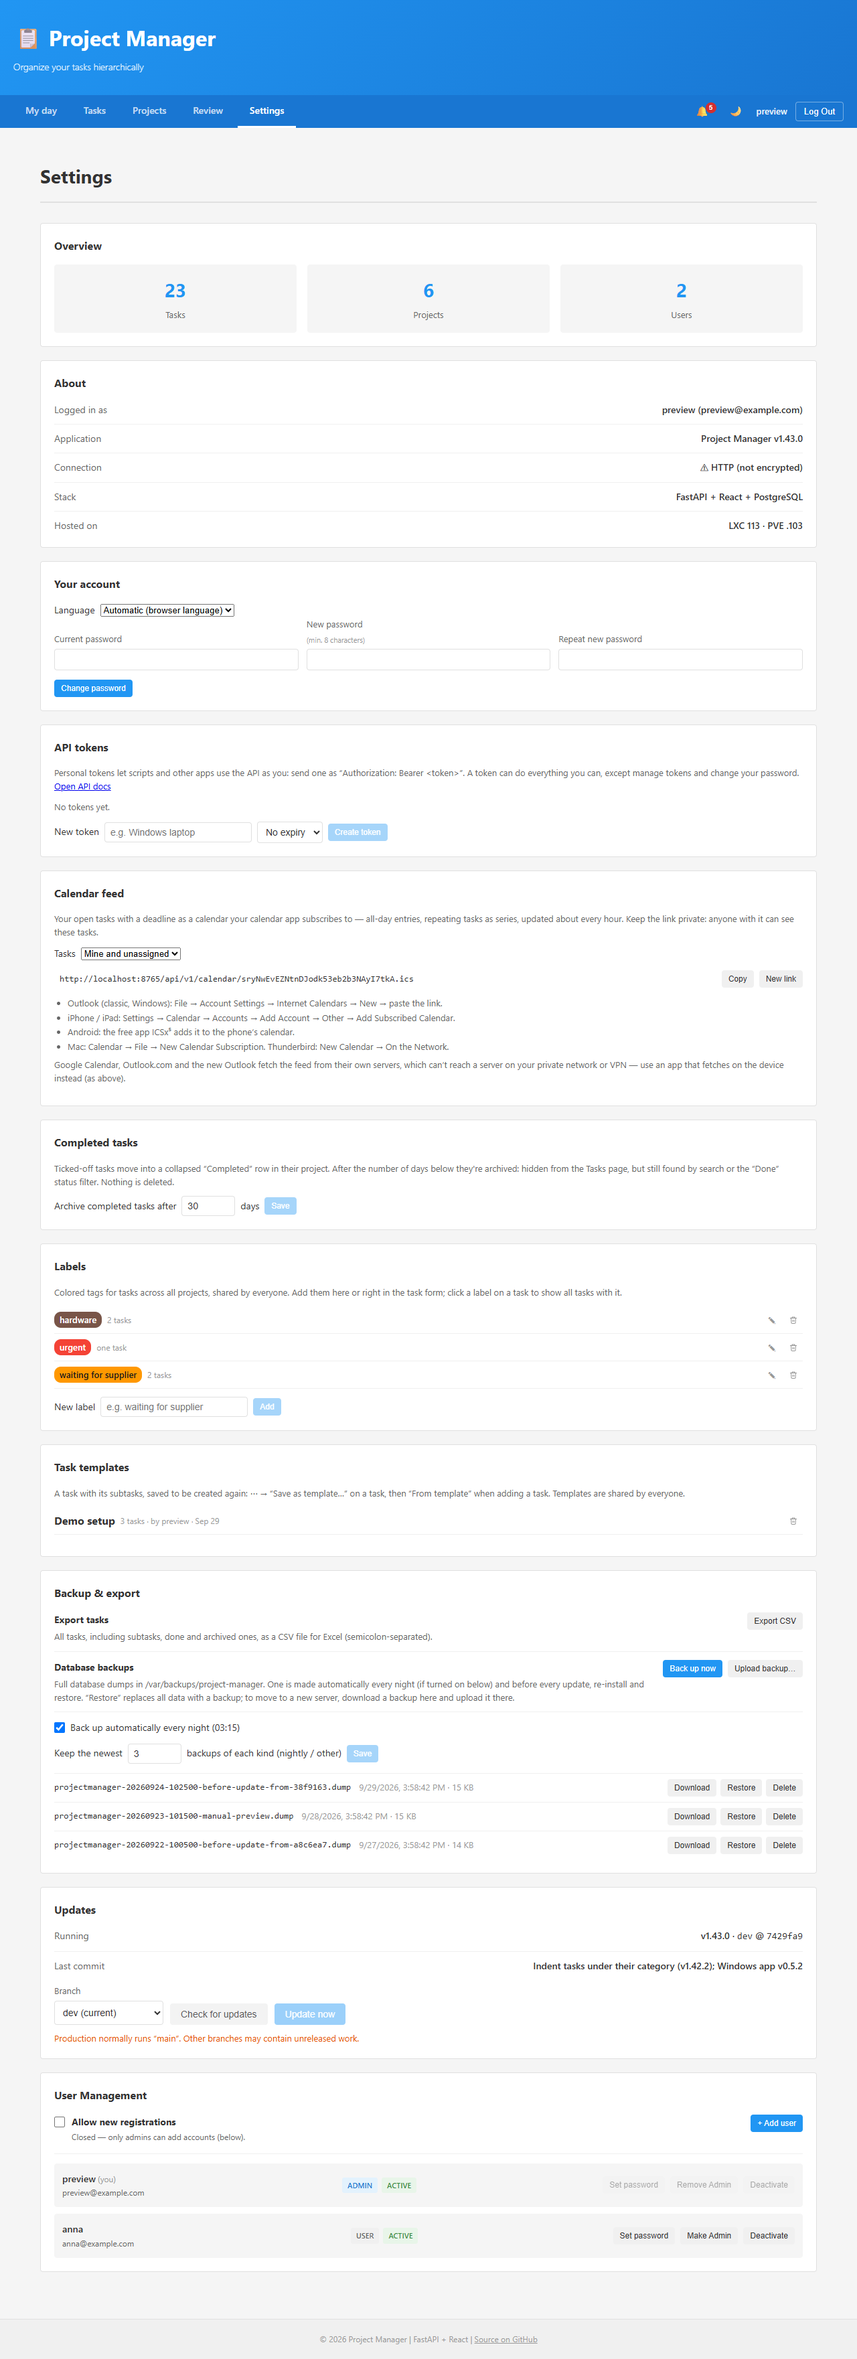
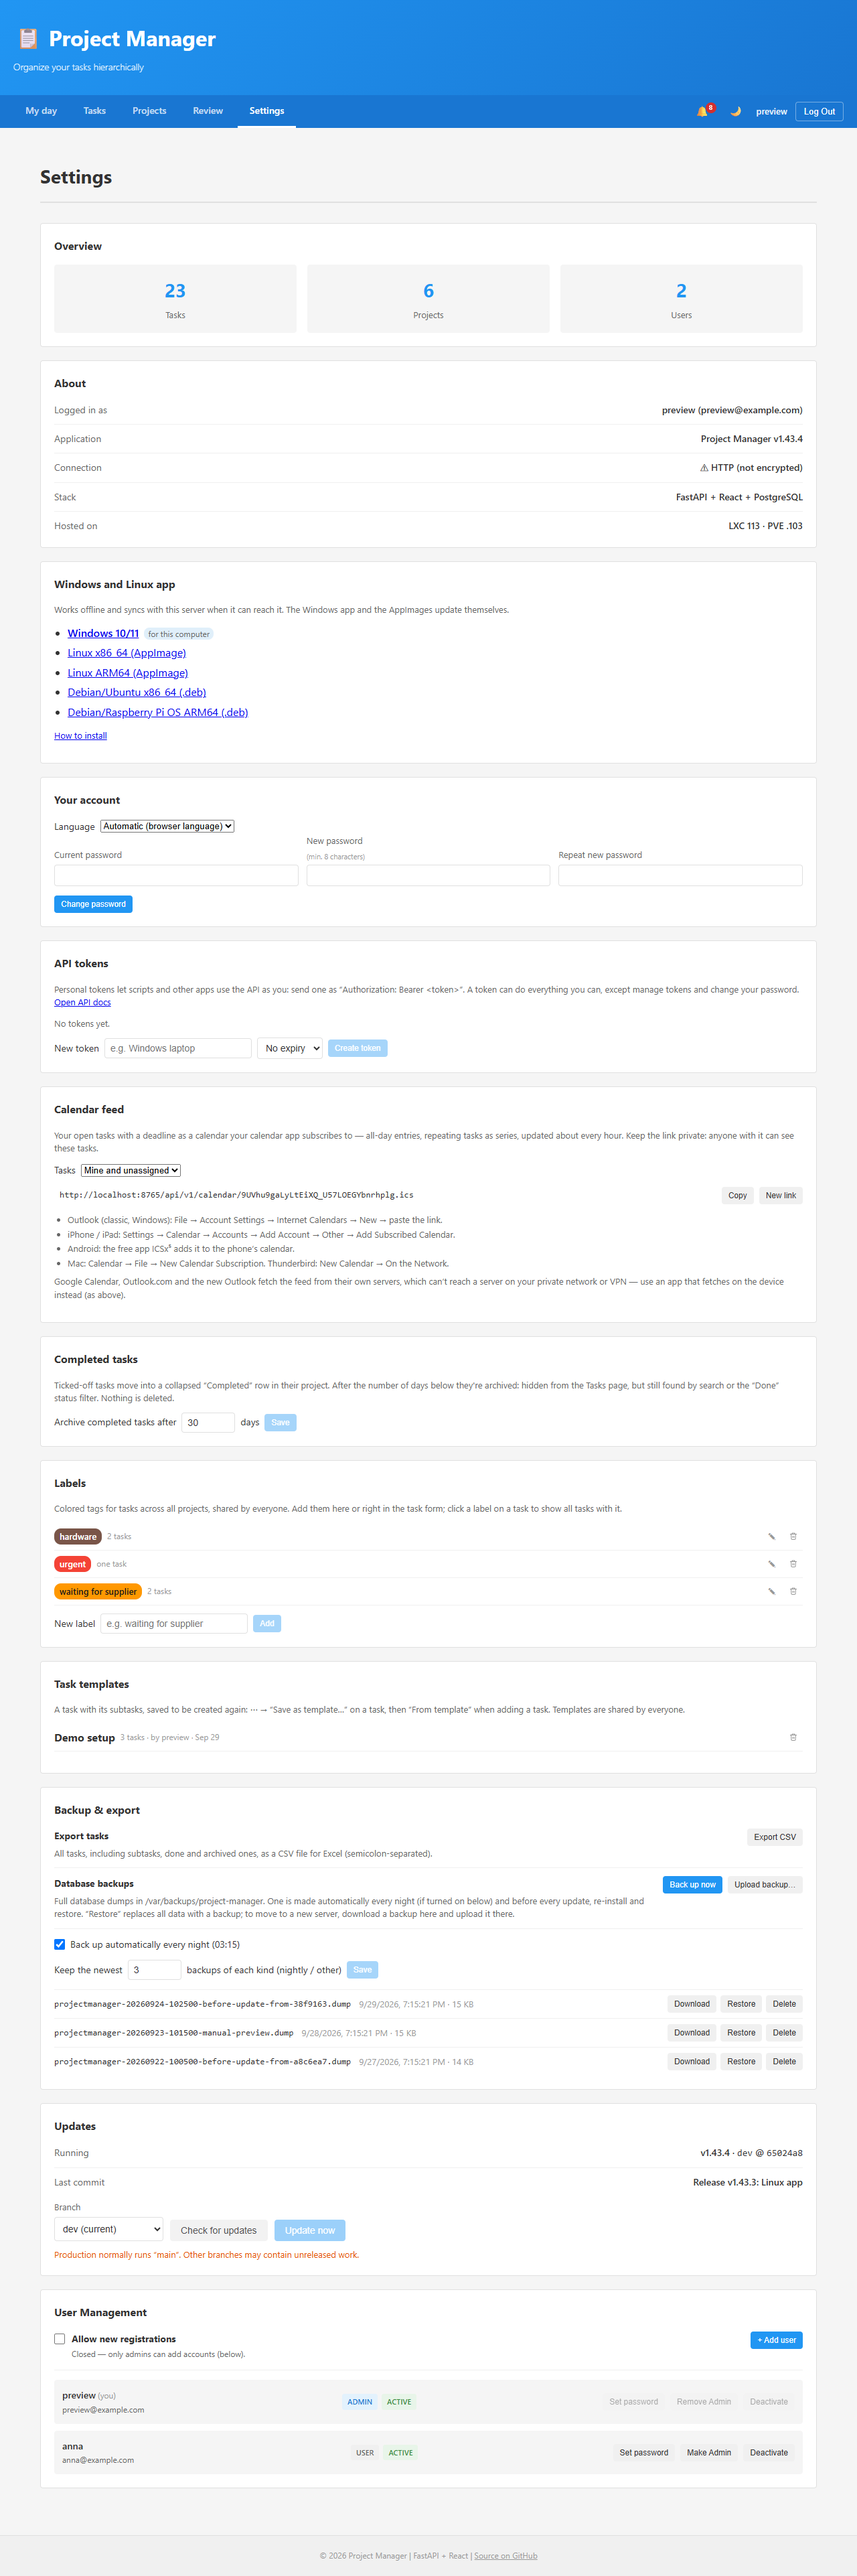
Easy to find app downloads (v1.43.4)
- Every server release (the one GitHub shows as "Latest") gets the newest
  Windows/Linux app under fixed names plus a download table:
  scripts/attach-apps.sh, run by release-apps.yml (server release) and
  desktop.yml (app release). .../releases/latest/download/<name> always
  gets the newest app.
- Settings -> Windows and Linux app in the web app with the download
  links (the one for this computer marked).
- README "Download the app" section at the top; desktop/README install
  table with the fixed links; docs, screenshot, CHANGELOG.

diff --git a/frontend/src/components/AppDownloads.js b/frontend/src/components/AppDownloads.js
@@ -1,0 +1,52 @@
+import React from 'react';
+import { t } from '../i18n';
+
+// Download links for the Windows and Linux app. They point at the latest
+// GitHub release, which always carries the newest app under these names
+// (scripts/attach-apps.sh), so they never need updating.
+const BASE = 'https://github.com/Boisti13/project-manager/releases/latest/download/';
+
+export const APP_FILES = [
+  { os: 'windows', label: 'Windows 10/11', file: 'ProjectManager-Windows-x64-setup.exe' },
+  { os: 'linux', label: 'Linux x86_64 (AppImage)', file: 'ProjectManager-Linux-x86_64.AppImage' },
+  { os: 'linux', label: 'Linux ARM64 (AppImage)', file: 'ProjectManager-Linux-arm64.AppImage' },
+  { os: 'linux', label: 'Debian/Ubuntu x86_64 (.deb)', file: 'ProjectManager-Linux-x86_64.deb' },
+  { os: 'linux', label: 'Debian/Raspberry Pi OS ARM64 (.deb)', file: 'ProjectManager-Linux-arm64.deb' },
+];
+
+function currentOs() {
+  const ua = navigator.userAgent;
+  if (/Android|iPhone|iPad/.test(ua)) return null;
+  if (/Windows/.test(ua)) return 'windows';
+  if (/Linux|X11/.test(ua)) return 'linux';
+  return null;
+}
+
+function AppDownloads() {
+  const os = currentOs();
+  return (
+    <div className="settings-section">
+      <h2>{t('Windows and Linux app')}</h2>
+      <p className="settings-help">
+        {t('Works offline and syncs with this server when it can reach it. The Windows app and the AppImages update themselves.')}
+      </p>
+      <ul className="app-downloads">
+        {APP_FILES.map((a) => (
+          <li key={a.file} className={a.os === os ? 'app-download-mine' : ''}>
+            <a href={BASE + a.file}>{a.label}</a>
+            {a.os === os && a.file === APP_FILES.find((x) => x.os === os).file && (
+              <span className="app-download-tag">{t('for this computer')}</span>
+            )}
+          </li>
+        ))}
+      </ul>
+      <p className="settings-help">
+        <a href="https://github.com/Boisti13/project-manager/blob/main/desktop/README.md#installing" target="_blank" rel="noopener noreferrer">
+          {t('How to install')}
+        </a>
+      </p>
+    </div>
+  );
+}
+
+export default AppDownloads;

diff --git a/frontend/src/locales/de.js b/frontend/src/locales/de.js
@@ -273,6 +273,7 @@ const de = {
   "First column": "Erste Spalte",
   "first workday": "erster Werktag",
   "follows the schedule (from the deadline)": "folgt dem Plan (ab der Frist)",
+  "for this computer": "für diesen Computer",
   "Formatting: **bold**, *italic*, `code`, - lists, links are clickable": "Formatierung: **fett**, *kursiv*, `Code`, - Listen, Links sind anklickbar",
   "From template": "Aus Vorlage",
   "from {date}": "ab {date}",
@@ -286,6 +287,7 @@ const de = {
   "High": "Hoch",
   "Hosted on": "Gehostet auf",
   "Hours and minutes, e.g. 2h, 1.5h, 45m or 1:30": "Stunden und Minuten, z. B. 2h, 1,5h, 45m oder 1:30",
+  "How to install": "Installationsanleitung",
   "ID": "ID",
   "Import": "Importieren",
   "Import failed: {error}": "Import fehlgeschlagen: {error}",
@@ -700,10 +702,12 @@ const de = {
   "Weeks": "Wochen",
   "weeks": "Wochen",
   "Whose tasks": "Wessen Aufgaben",
+  "Windows and Linux app": "App für Windows und Linux",
   "Windows app": "Windows-App",
   "Windows app ({date})": "Windows-App ({date})",
   "workdays": "werktags",
   "Working…": "Wird ausgeführt …",
+  "Works offline and syncs with this server when it can reach it. The Windows app and the AppImages update themselves.": "Funktioniert offline und synchronisiert mit diesem Server, sobald er erreichbar ist. Die Windows-App und die AppImages aktualisieren sich selbst.",
   "Write a comment…  (Ctrl+Enter to send)": "Kommentar schreiben …  (Strg+Enter zum Senden)",
   "Write a comment… @name notifies someone  (Ctrl+Enter to send)": "Kommentar schreiben… @Name benachrichtigt jemanden  (Strg+Enter zum Senden)",
   "year": "Jahr",

diff --git a/frontend/src/components/Settings.js b/frontend/src/components/Settings.js
@@ -9,6 +9,7 @@ import LabelSettings from './LabelSettings';
 import ApiTokenSettings from './ApiTokenSettings';
 import CalendarFeedSettings from './CalendarFeedSettings';
 import DesktopSettings from './desktop/DesktopSettings';
+import AppDownloads from './AppDownloads';
 import { IS_DESKTOP } from '../desktop/platform';
 import '../styles/Settings.css';
 import { t } from '../i18n';
@@ -106,7 +107,7 @@ function Settings() {
         </div>
       </div>
 
-      {IS_DESKTOP && <DesktopSettings />}
+      {IS_DESKTOP ? <DesktopSettings /> : <AppDownloads />}
 
       <AccountSettings />
 

diff --git a/frontend/src/styles/Settings.css b/frontend/src/styles/Settings.css
@@ -330,3 +330,25 @@
 .feed-howto li {
   margin: 2px 0;
 }
+
+.app-downloads {
+  margin: 0 0 12px;
+  padding-left: 20px;
+}
+
+.app-downloads li {
+  margin: 4px 0;
+}
+
+.app-download-mine a {
+  font-weight: 600;
+}
+
+.app-download-tag {
+  margin-left: 8px;
+  padding: 1px 6px;
+  border-radius: 8px;
+  font-size: 12px;
+  background: var(--color-primary-light, rgba(0, 120, 212, 0.12));
+  color: var(--color-text-secondary);
+}

diff --git a/desktop/README.md b/desktop/README.md
@@ -10,17 +10,21 @@ with a local copy of your data.
 
 ## Installing
 
-Downloads are on the [releases](https://github.com/Boisti13/project-manager/releases?q=desktop-v&expanded=true)
-tagged `desktop-v…` (or the latest build under *Actions → Desktop apps →
-Artifacts*):
+Download the file for your system — these links always get the newest
+version (they're also under *Settings* in the web app, and on the
+[latest release](https://github.com/Boisti13/project-manager/releases/latest)):
 
-| System | File | Updates |
-|---|---|---|
-| Windows 10/11 (x64) | `Project.Manager_<version>_x64-setup.exe` | itself |
-| Linux x86_64, any distribution | `Project.Manager_<version>_amd64.AppImage` | itself |
-| Linux ARM64 (e.g. Raspberry Pi 4/5 with a 64-bit OS) | `Project.Manager_<version>_aarch64.AppImage` | itself |
-| Debian, Ubuntu, Mint, Raspberry Pi OS — x86_64 | `Project.Manager_<version>_amd64.deb` | install the new package |
-| … ARM64 | `Project.Manager_<version>_arm64.deb` | install the new package |
+| System | Download |
+|---|---|
+| Windows 10/11 | [ProjectManager-Windows-x64-setup.exe](https://github.com/Boisti13/project-manager/releases/latest/download/ProjectManager-Windows-x64-setup.exe) |
+| Linux, any distribution (x86_64) | [ProjectManager-Linux-x86_64.AppImage](https://github.com/Boisti13/project-manager/releases/latest/download/ProjectManager-Linux-x86_64.AppImage) |
+| Linux on ARM, e.g. Raspberry Pi 4/5 | [ProjectManager-Linux-arm64.AppImage](https://github.com/Boisti13/project-manager/releases/latest/download/ProjectManager-Linux-arm64.AppImage) |
+| Debian, Ubuntu, Mint (x86_64) | [ProjectManager-Linux-x86_64.deb](https://github.com/Boisti13/project-manager/releases/latest/download/ProjectManager-Linux-x86_64.deb) |
+| Raspberry Pi OS, Debian on ARM | [ProjectManager-Linux-arm64.deb](https://github.com/Boisti13/project-manager/releases/latest/download/ProjectManager-Linux-arm64.deb) |
+
+Each version is also on its own release tagged `desktop-v…`, and the latest
+build under *Actions → Desktop apps → Artifacts*. The Windows app and the
+AppImages update themselves; a `.deb` is updated by installing the new one.
 
 - **Windows**: run the installer. It installs for the current user; no admin
   rights needed. The installer isn't code-signed yet, so on first run Windows
@@ -28,12 +32,12 @@ Artifacts*):
   anyway**. With **Smart App Control** switched on, Windows blocks unsigned
   apps outright; it has to be off to install the app.
 - **AppImage**: make it executable and start it —
-  `chmod +x Project.Manager_*.AppImage && ./Project.Manager_*.AppImage`
+  `chmod +x ProjectManager-Linux-*.AppImage && ./ProjectManager-Linux-*.AppImage`
   (or *Properties → Allow executing as program* in the file manager). Keep it
   somewhere it can be replaced, e.g. `~/Applications`, so it can update
   itself. If it says FUSE is missing, install `libfuse2` (Ubuntu 24.04:
   `libfuse2t64`) or start it with `--appimage-extract-and-run`.
-- **.deb**: `sudo apt install ./Project.Manager_*_amd64.deb` (or `_arm64`).
+- **.deb**: `sudo apt install ./ProjectManager-Linux-x86_64.deb` (or `-arm64`).
   It pulls in WebKitGTK and shows up in the app menu as *Project Manager*.
   Updates: the app shows when there's a new version and links to its
   download page; install the new `.deb` the same way.
@@ -139,7 +143,12 @@ Releases: bump the version in `src-tauri/tauri.conf.json`,
 `src-tauri/Cargo.toml` and `frontend/src/desktop/platform.js` (a test checks
 they match), add a section to [CHANGELOG.md](CHANGELOG.md), and push a tag
 `desktop-vX.Y.Z` — the workflow attaches all five files to one GitHub
-release and updates the update feed, so installed apps offer it.
+release and updates the update feed, so installed apps offer it. It also
+copies them under fixed names (`ProjectManager-Windows-x64-setup.exe`, …) to
+the latest server release, with a download table in its notes
+([`scripts/attach-apps.sh`](../scripts/attach-apps.sh)); every new server
+release gets them the same way ([`release-apps.yml`](../.github/workflows/release-apps.yml)).
+So `…/releases/latest/download/<name>` is always the newest app.
 
 ## Updates
 

diff --git a/README.md b/README.md
@@ -2,7 +2,7 @@
 
 [![CI](https://github.com/Boisti13/project-manager/actions/workflows/ci.yml/badge.svg)](https://github.com/Boisti13/project-manager/actions/workflows/ci.yml)
 [![Latest release](https://img.shields.io/github/v/release/Boisti13/project-manager?filter=v*&label=release)](https://github.com/Boisti13/project-manager/releases/latest)
-[![Windows & Linux app](https://img.shields.io/github/v/release/Boisti13/project-manager?filter=desktop-v*&label=windows%20%26%20linux%20app)](https://github.com/Boisti13/project-manager/releases?q=desktop-v&expanded=true)
+[![Windows & Linux app](https://img.shields.io/github/v/release/Boisti13/project-manager?filter=desktop-v*&label=windows%20%26%20linux%20app)](#download-the-app)
 [![License: MIT](https://img.shields.io/github/license/Boisti13/project-manager)](LICENSE)
 
 A self-hosted task manager for a small team: projects with categories,
@@ -12,6 +12,23 @@ works on phones, speaks English and German, and has a Windows and Linux app that
 working offline.
 
 ![Tasks grouped by project and category](docs/screenshots/tasks-desktop.png)
+
+## Download the app
+
+The server is installed on your own machine ([Install](#install));
+the **Windows and Linux app** connects to it and works offline too. These
+links always get the newest version:
+
+| System | Download |
+|---|---|
+| Windows 10/11 | [ProjectManager-Windows-x64-setup.exe](https://github.com/Boisti13/project-manager/releases/latest/download/ProjectManager-Windows-x64-setup.exe) |
+| Linux, any distribution (x86_64) | [ProjectManager-Linux-x86_64.AppImage](https://github.com/Boisti13/project-manager/releases/latest/download/ProjectManager-Linux-x86_64.AppImage) |
+| Linux on ARM, e.g. Raspberry Pi 4/5 | [ProjectManager-Linux-arm64.AppImage](https://github.com/Boisti13/project-manager/releases/latest/download/ProjectManager-Linux-arm64.AppImage) |
+| Debian, Ubuntu, Mint (x86_64) | [ProjectManager-Linux-x86_64.deb](https://github.com/Boisti13/project-manager/releases/latest/download/ProjectManager-Linux-x86_64.deb) |
+| Raspberry Pi OS, Debian on ARM | [ProjectManager-Linux-arm64.deb](https://github.com/Boisti13/project-manager/releases/latest/download/ProjectManager-Linux-arm64.deb) |
+
+How to install and connect: [desktop/README.md](desktop/README.md#installing).
+The web app shows the same links under *Settings*.
 
 ## Highlights
 

diff --git a/docs/development.md b/docs/development.md
@@ -86,6 +86,7 @@ project-manager/
 ├── VERSION                  # Single source of truth for the app version
 ├── .github/workflows/ci.yml # Tests, build, browser tests and shellcheck on every push
 ├── .github/workflows/desktop.yml # Windows/Linux app: tests, builds, release
+├── .github/workflows/release-apps.yml # attaches the apps to every server release
 ├── desktop/                 # Windows/Linux app (Tauri shell; offline layer in frontend/src/desktop)
 ├── backend/
 │   ├── app/                 # FastAPI application (routers/, models.py, schemas.py, access.py = who sees what, ...)
@@ -164,7 +165,7 @@ git tag -a v1.4.0 -m "Description of the release"
 git push origin v1.4.0
 ```
 
-A tag alone shows up under *Tags* on GitHub; create a GitHub Release from it (with the CHANGELOG section as notes) for it to appear under *Releases*. The Windows/Linux app has its own versions and `desktop-vX.Y.Z` tags — see [desktop/README.md](../desktop/README.md#building).
+A tag alone shows up under *Tags* on GitHub; create a GitHub Release from it (with the CHANGELOG section as notes) for it to appear under *Releases*. A workflow then attaches the newest Windows/Linux app to it ([`scripts/attach-apps.sh`](../scripts/attach-apps.sh)), so the *Latest* release always has the downloads. The Windows/Linux app has its own versions and `desktop-vX.Y.Z` tags — see [desktop/README.md](../desktop/README.md#building).
 
 ## Screenshots
 

diff --git a/desktop/download-notes.md b/desktop/download-notes.md
@@ -1,0 +1,11 @@
+### Download the app (Windows, Linux) — vDESKTOP_VERSION
+
+| System | File |
+|---|---|
+| Windows 10/11 | [ProjectManager-Windows-x64-setup.exe](https://github.com/Boisti13/project-manager/releases/latest/download/ProjectManager-Windows-x64-setup.exe) |
+| Linux, any distribution (x86_64) | [ProjectManager-Linux-x86_64.AppImage](https://github.com/Boisti13/project-manager/releases/latest/download/ProjectManager-Linux-x86_64.AppImage) |
+| Linux on ARM, e.g. Raspberry Pi 4/5 | [ProjectManager-Linux-arm64.AppImage](https://github.com/Boisti13/project-manager/releases/latest/download/ProjectManager-Linux-arm64.AppImage) |
+| Debian, Ubuntu, Mint (x86_64) | [ProjectManager-Linux-x86_64.deb](https://github.com/Boisti13/project-manager/releases/latest/download/ProjectManager-Linux-x86_64.deb) |
+| Raspberry Pi OS, Debian on ARM | [ProjectManager-Linux-arm64.deb](https://github.com/Boisti13/project-manager/releases/latest/download/ProjectManager-Linux-arm64.deb) |
+
+The Windows installer and the AppImages update themselves. Installing and first steps: [desktop/README.md](https://github.com/Boisti13/project-manager/blob/main/desktop/README.md#installing). The app's own changes: [desktop/CHANGELOG.md](https://github.com/Boisti13/project-manager/blob/main/desktop/CHANGELOG.md).

diff --git a/CHANGELOG.md b/CHANGELOG.md
@@ -2,6 +2,16 @@
 
 All notable changes, newest first. Versions follow [semantic versioning](docs/development.md#versioning); each release is tagged `vX.Y.Z` on `main`.
 
+## v1.43.4 — 2026-09-29
+
+### Added
+- **Easy to find app downloads**: the release GitHub shows as *Latest* now always carries the Windows and Linux app (fixed file names like `ProjectManager-Windows-x64-setup.exe`) with a download table, and the links `…/releases/latest/download/…` always get the newest version.
+- **Settings → Windows and Linux app** in the web app: the download links, with the one for your computer marked.
+- README: a *Download the app* section right at the top.
+
+### Under the hood
+- `scripts/attach-apps.sh`, run by the new workflow `release-apps.yml` on every server release and by `desktop.yml` on every app release.
+
 ## v1.43.3 — 2026-09-29
 
 ### Added

diff --git a/docs/user-guide.md b/docs/user-guide.md
@@ -403,6 +403,8 @@ which can't reach a server on a private network or VPN.
   import into another account or installation, or all tasks as a CSV file
   for Excel; admins also make and restore backups here.
 - **Windows app** / **Linux app** (only in the app): connection, sync and updates.
+  In the browser, **Windows and Linux app** has the download links instead
+  (the one for your system marked).
 
 Admins also see backups, updates and user management — see
 [For admins](#for-admins).
